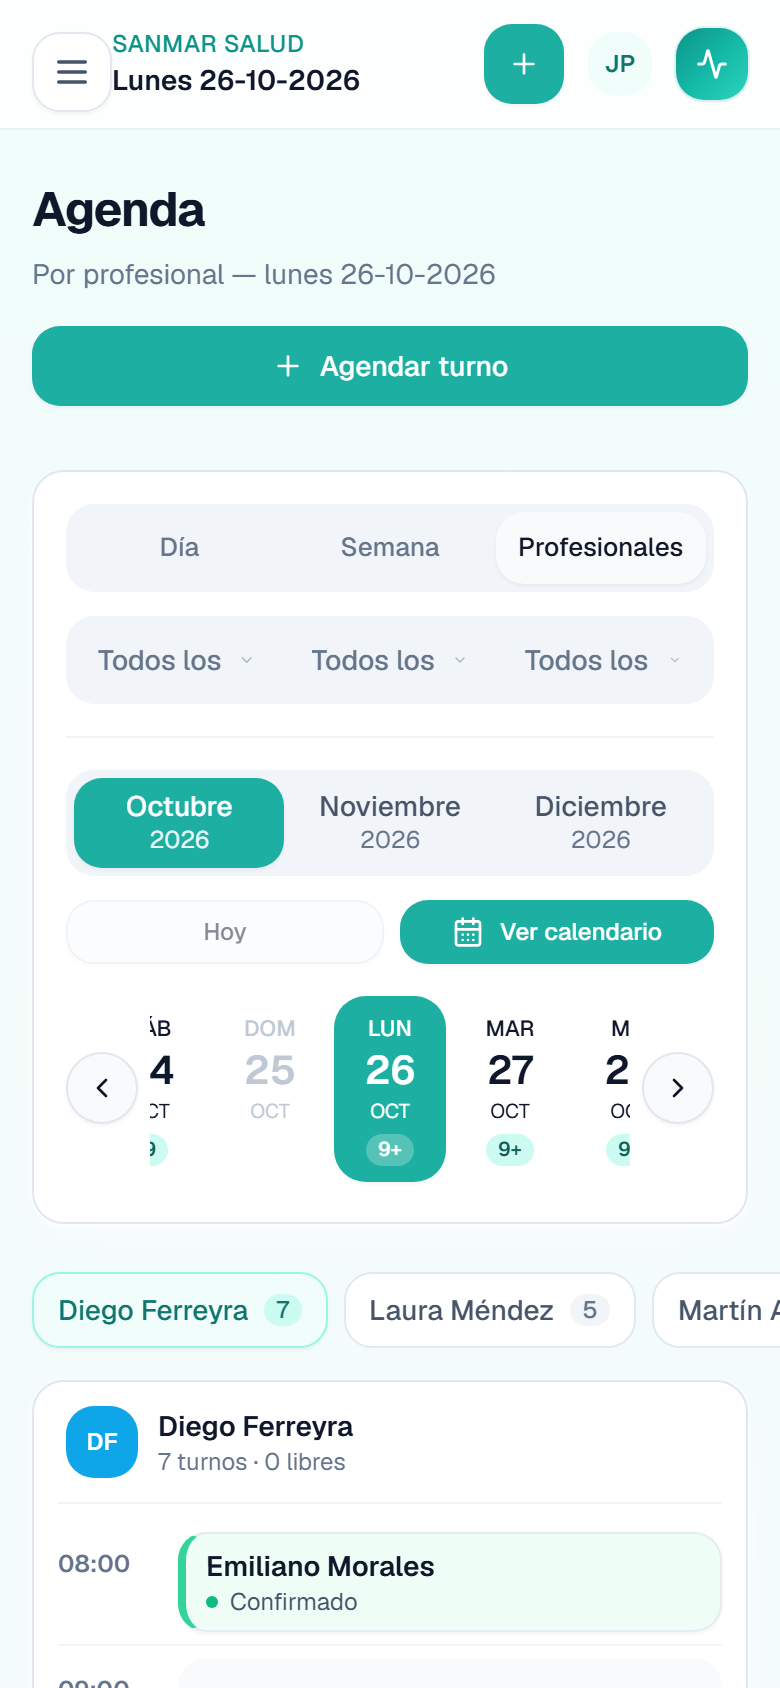
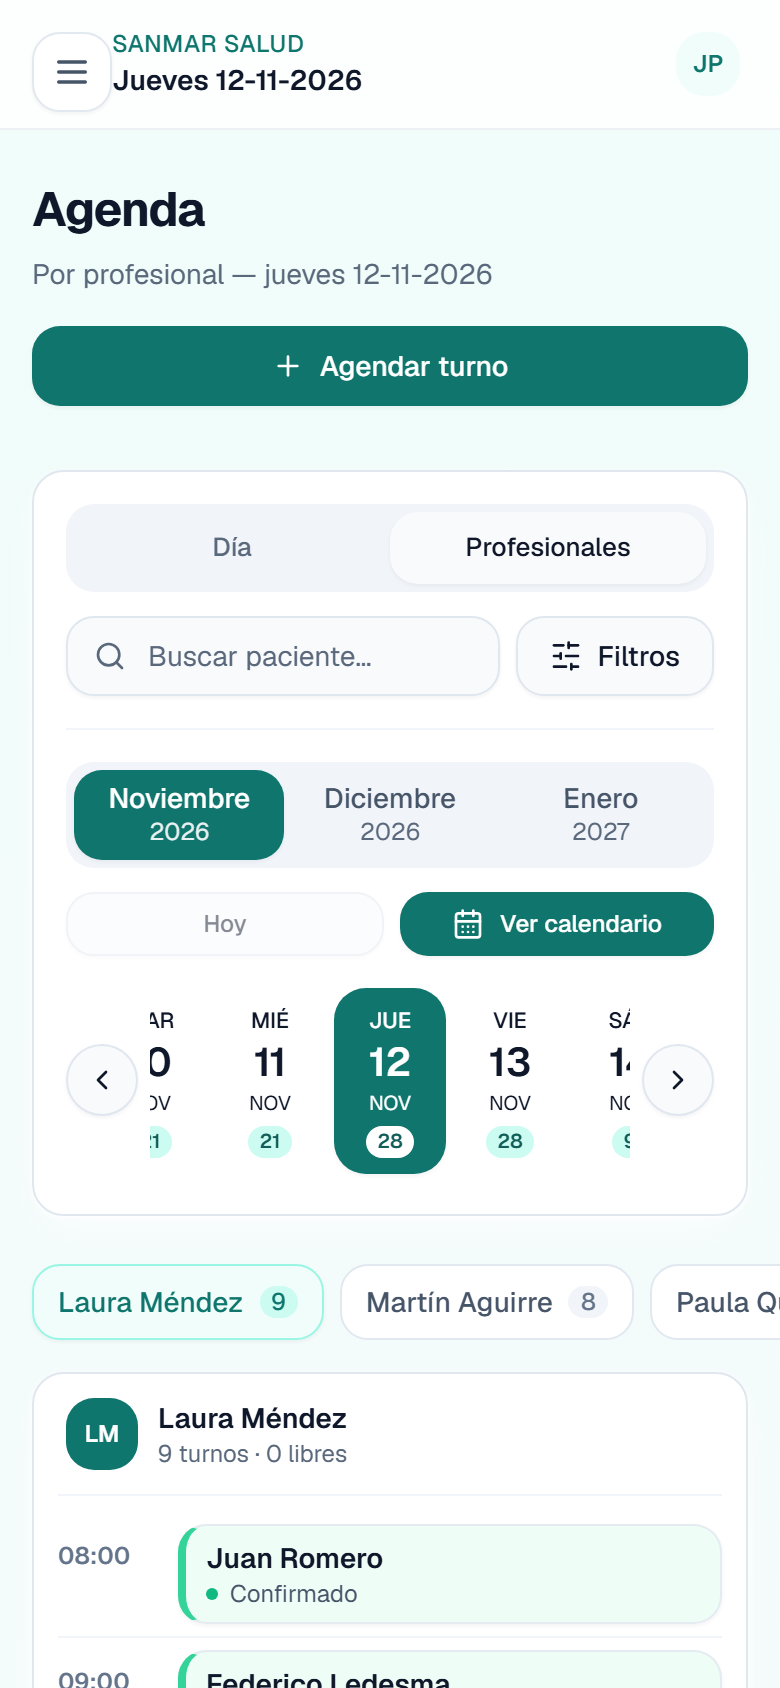
Capturas regeneradas con la interfaz actual
`npm run screenshots` con los cambios de #30 a #39 (filtros de la agenda,
etiqueta de estado, buscador de paciente en el alta, paginación, etc.). El
script se adapta: el campo Fecha se busca por rol (ahora hay un botón de
calendario al lado) y el resumen de autorizaciones se llama "Situación".

diff --git a/scripts/screenshots/run.ts b/scripts/screenshots/run.ts
@@ -91,7 +91,7 @@ async function main() {
           // Próximo día hábil de lunes a viernes (Laura Méndez no atiende sábados).
           let day = addDays(new Date(), 1);
           while (day.getDay() === 0 || day.getDay() === 6) day = addDays(day, 1);
-          const date = dialog.getByLabel("Fecha");
+          const date = dialog.getByRole("textbox", { name: /^Fecha/ });
           await date.fill(format(day, "dd-MM-yyyy"));
           await date.press("Tab");
           await dialog.getByRole("combobox", { name: "Horario" }).click();
@@ -115,7 +115,7 @@ async function main() {
       {
         file: "autorizaciones-desktop.png",
         path: "/obras-sociales",
-        prepare: (p) => p.getByRole("group", { name: "Resumen de autorizaciones" }).waitFor(),
+        prepare: (p) => p.getByRole("group", { name: "Situación" }).waitFor(),
         fullPage: false,
       },
       {
